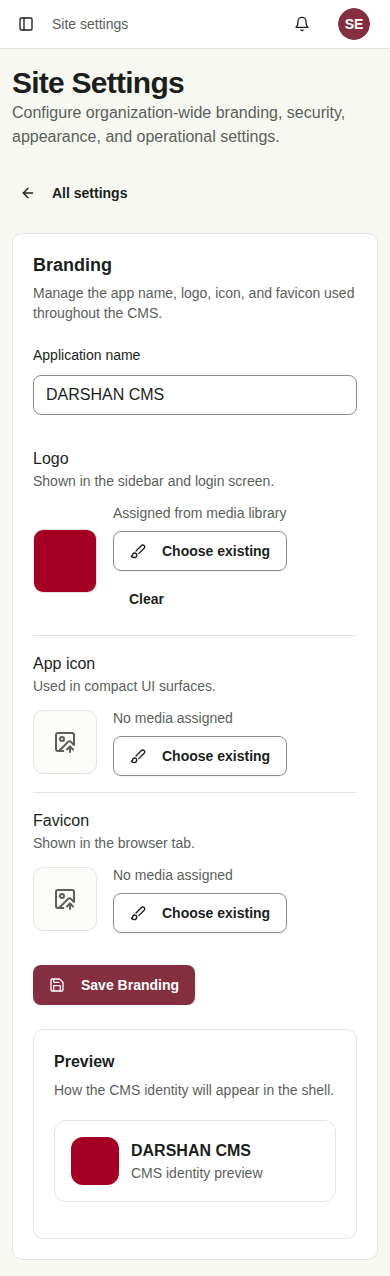
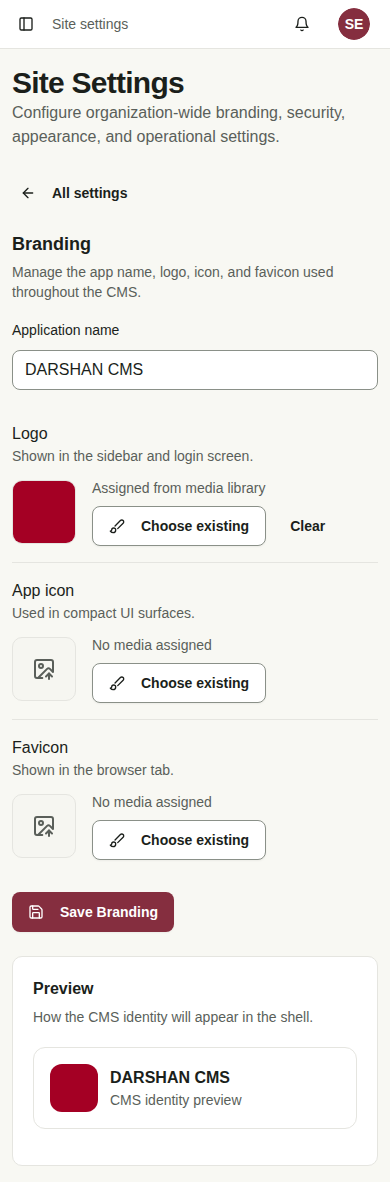
style(cms): simplify Settings section layout
Place major Settings sections on the site canvas while keeping controls and previews bounded. Correct the inherited card border after rendered inspection, and record full Settings browser and build verification.

diff --git a/darshan-cms/src/pages/Settings.tsx b/darshan-cms/src/pages/Settings.tsx
@@ -457,12 +457,12 @@ const Settings = () => {
 
         <TabsContent value="general" className="space-y-4">
           <SettingsQueryGuard query={generalQuery}>
-          <Card>
-            <CardHeader>
+          <Card className="settings-section">
+            <CardHeader className="px-0 pb-4 pt-0">
               <CardTitle>General</CardTitle>
               <CardDescription>Default locale and organization details for the CMS.</CardDescription>
             </CardHeader>
-            <CardContent className="space-y-4">
+            <CardContent className="space-y-4 px-0 pb-0 pt-0">
               {!canEditOrg ? <p className="text-sm text-muted-foreground">You can view these settings. Editing requires Manage Site Settings.</p> : null}
               <div className="space-y-2">
                 <Label htmlFor="company-name">Company name</Label>
@@ -504,14 +504,14 @@ const Settings = () => {
 
         <TabsContent value="branding" className="space-y-4">
           <SettingsQueryGuard query={brandingQuery}>
-          <Card>
-            <CardHeader>
+          <Card className="settings-section">
+            <CardHeader className="px-0 pb-4 pt-0">
               <CardTitle>Branding</CardTitle>
               <CardDescription>
                 Manage the app name, logo, icon, and favicon used throughout the CMS.
               </CardDescription>
             </CardHeader>
-            <CardContent className="space-y-4">
+            <CardContent className="space-y-4 px-0 pb-0 pt-0">
               {!canEditBranding ? (
                 <div className="rounded-lg border border-dashed p-4 text-sm text-muted-foreground">
                   You can view branding. Editing requires Manage Branding permission.
@@ -596,12 +596,12 @@ const Settings = () => {
 
         <TabsContent value="security" className="space-y-4">
           <SettingsQueryGuard query={securityQuery}>
-          <Card>
-            <CardHeader>
+          <Card className="settings-section">
+            <CardHeader className="px-0 pb-4 pt-0">
               <CardTitle>Security</CardTitle>
               <CardDescription>Working session timeout and password requirement controls.</CardDescription>
             </CardHeader>
-            <CardContent className="space-y-6">
+            <CardContent className="space-y-6 px-0 pb-0 pt-0">
               {!canEditOrg ? <p className="text-sm text-muted-foreground">You can view these settings. Editing requires Manage Site Settings.</p> : null}
               <div className="space-y-2">
                 <Label htmlFor="session-timeout">Idle session timeout (minutes)</Label>
@@ -688,12 +688,12 @@ const Settings = () => {
 
         <TabsContent value="appearance" className="space-y-4">
           <SettingsQueryGuard query={appearanceQuery}>
-          <Card>
-            <CardHeader>
+          <Card className="settings-section">
+            <CardHeader className="px-0 pb-4 pt-0">
               <CardTitle>Appearance</CardTitle>
               <CardDescription>Theme, accent, and sidebar behavior for the entire CMS.</CardDescription>
             </CardHeader>
-            <CardContent className="space-y-4">
+            <CardContent className="space-y-4 px-0 pb-0 pt-0">
               {!canEditOrg ? <p className="text-sm text-muted-foreground">You can view these settings. Editing requires Manage Site Settings.</p> : null}
               <div className="grid gap-4 md:grid-cols-3">
                 <div className="space-y-2">
@@ -765,14 +765,14 @@ const Settings = () => {
           <DefaultMediaSection />
         </TabsContent>
 
-        <TabsContent value="advanced" className="space-y-4">
+        <TabsContent value="advanced" className="space-y-8">
           <SettingsQueryGuard query={backupSettingsQuery}>
-          <Card>
-            <CardHeader>
+          <Card className="settings-section">
+            <CardHeader className="px-0 pb-4 pt-0">
               <CardTitle>Backups</CardTitle>
               <CardDescription>Automatic full backups for PostgreSQL and MinIO archives.</CardDescription>
             </CardHeader>
-            <CardContent className="space-y-4">
+            <CardContent className="space-y-4 px-0 pb-0 pt-0">
               {!canEditOrg ? <p className="text-sm text-muted-foreground">You can view backup settings. Editing requires Manage Site Settings.</p> : null}
               <div className="flex flex-wrap items-center gap-2 rounded-lg border bg-muted/20 px-4 py-3 text-sm">
                 <Badge variant={automaticBackupsEnabled ? "default" : "outline"}>
@@ -852,12 +852,12 @@ const Settings = () => {
             </CardContent>
           </Card>
 
-          {!externalBackupSidecar ? <Card>
-            <CardHeader>
+          {!externalBackupSidecar ? <Card className="settings-section">
+            <CardHeader className="px-0 pb-4 pt-0">
               <CardTitle>Backup history</CardTitle>
               <CardDescription>Recent manual and automatic backup runs.</CardDescription>
             </CardHeader>
-            <CardContent className="space-y-3">
+            <CardContent className="space-y-3 px-0 pb-0 pt-0">
               {backupRunsQuery.isPending ? <p className="text-sm text-muted-foreground">Loading backup history…</p> : null}
               {backupRunsQuery.isError ? <div className="space-y-2"><p className="text-sm text-destructive">Could not load backup history.</p><Button variant="outline" onClick={() => void backupRunsQuery.refetch()}>Retry</Button></div> : null}
               {backupRuns.map((run) => (
@@ -920,12 +920,12 @@ const Settings = () => {
           />
           </SettingsQueryGuard>
 
-          <Card>
-            <CardHeader>
+          <Card className="settings-section">
+            <CardHeader className="px-0 pb-4 pt-0">
               <CardTitle>Recent logs</CardTitle>
               <CardDescription>Recent backend application logs filtered by runtime log level.</CardDescription>
             </CardHeader>
-            <CardContent className="space-y-4">
+            <CardContent className="space-y-4 px-0 pb-0 pt-0">
               {recentLogsQuery.isPending ? <p className="text-sm text-muted-foreground">Loading recent logs…</p> : null}
               {recentLogsQuery.isError ? <div className="space-y-2"><p className="text-sm text-destructive">Could not load recent logs.</p><Button variant="outline" onClick={() => void recentLogsQuery.refetch()}>Retry</Button></div> : null}
               <div className="flex flex-wrap items-center gap-3">

diff --git a/darshan-cms/tests/settings-ui.e2e.spec.ts b/darshan-cms/tests/settings-ui.e2e.spec.ts
@@ -151,6 +151,8 @@ test("recent logs use readable site surfaces in dark and light modes", async ({ 
   const message = page.getByText("Service ready");
   await expect(message).toBeVisible();
   const panel = message.locator("../..");
+  const section = page.locator(".settings-section").filter({ has: page.getByRole("heading", { name: "Recent logs" }) });
+  await expect(section).toHaveCSS("border-top-width", "0px");
   await expect(page.locator("html")).toHaveClass(/dark/);
   await expect(panel).toHaveCSS("background-color", "rgb(29, 33, 29)");
   await expect(message).toHaveCSS("color", "rgb(242, 245, 238)");

diff --git a/darshan-cms/src/index.css b/darshan-cms/src/index.css
@@ -136,6 +136,7 @@
 @layer utilities {
   .operational-shell { background: hsl(var(--background)); }
   .operational-card { border: 1px solid hsl(var(--border)); background: hsl(var(--card)); box-shadow: none; }
+  .operational-card.settings-section { border: 0; background: transparent; box-shadow: none; }
   .operational-card.layout-editor-group { border: 0; background: transparent; box-shadow: none; }
   .operational-card-strong { border: 1px solid hsl(var(--border)); background: hsl(var(--card)); box-shadow: none; }
   .status-dot { height: .625rem; width: .625rem; border-radius: 999px; }

diff --git a/docs/design-discovery/PRODUCT_UI_COVERAGE_REGISTER.md b/docs/design-discovery/PRODUCT_UI_COVERAGE_REGISTER.md
@@ -32,7 +32,7 @@ The route gate is the UI navigation guard, not a substitute for the server's act
 | R21 | `/screens` — Screens | `read Screen` or `read ScreenGroup` | Screen, Group and Pairing APIs; inspect, pair, recover, manage and delete with server blockers. | 390/820/1440 prototype; 20/20 fixture-backed browser cases; semantic Screen health/delivery colors checked in the built palette; real player pending. |
 | R22 | `/media` — MediaLibrary | `read Media` | Media API; upload, preview, delete and restore when authorized. | 390/820/1440 fixture browser and dark phone; 6 new UI cases plus 9 affected regressions; real upload/restore service pending. |
 | R23 | `/reports` — Reports | `read Report` or `read AuditLog` | Availability and audit views; conditional PoP preview; PDF/CSV exports according to exact grants. | 390/820/1440 fixture browser and dark phone; 8 new/affected cases and focused PDF route tests passed. Real-service evidence pending. |
-| R24 | `/settings` — Settings | `read OrgSettings`; `read BrandingSettings` and `read Role` for those categories | Settings hooks and media API; site categories remain read-only without their update grants. Branding upload also requires `create Media`. | Phone category → detail, tablet/desktop category list, 390/640/820/1440 fixture browser, failure/Retry and focused API validation passed. Default Media conflict retry corrected. Saved appearance propagation checked in fixtures; matched-service and assistive-technology review pending. |
+| R24 | `/settings` — Settings | `read OrgSettings`; `read BrandingSettings` and `read Role` for those categories | Settings hooks and media API; site categories remain read-only without their update grants. Branding upload also requires `create Media`. | Phone category → detail, tablet/desktop category list, 390/640/820/1440 fixture browser, failure/Retry and focused API validation passed. Major sections now sit on the page canvas, with bounded fields and previews; 7/7 Settings browser cases passed after that change. Default Media conflict retry corrected. Saved appearance propagation checked in fixtures; matched-service and assistive-technology review pending. |
 | R25 | `/api-keys` — ApiKeys | `read ApiKey` | Review retained prefixes/status and revoke with `delete ApiKey`; creation/rotation are disabled because API-key authentication is absent. | 390/820/1440 fixture browser and dark phone; browser and DB policy cases passed; matched-build isolated CMS showed no issuance controls and completed retained-key cancel/revoke. Wider permission and accessibility cases pending. |
 | R26 | `/webhooks` — Webhooks | `read Webhook` | Webhook API; configure endpoints, enable/pause, delete and explicitly test permitted destinations. Automatic event delivery is absent. | 390/820/1440 fixture browser and dark phone; four new cases, admin regression, focused route test; real endpoint and dispatcher decision pending. |
 | R27 | `/proof-of-play` — ProofOfPlay | `read ProofOfPlay` | PoP API; inspect player-reported playback starts and completion outcomes, filter and export evidence. | 390/820/1440 fixture browser and dark phone; 4 browser cases and focused DB routes passed. Real player/service journey pending. |

diff --git a/docs/design-discovery/PRODUCT_UI_REDESIGN_PROGRESS.md b/docs/design-discovery/PRODUCT_UI_REDESIGN_PROGRESS.md
@@ -261,3 +261,5 @@ The default CMS SVG/favicon and the player installer/window icon now share a fla
 The first broad fixture browser run exposed four obsolete test assumptions after site appearance became server-owned. Dark-mode tests now serve saved site settings instead of writing the old browser-storage key; the Users test uses the current heading. It also exposed a real bootstrap defect: malformed private appearance/branding responses could overwrite a valid public theme or branding. The bootstrap now applies only validated fields, including safe image URLs. A second broad run reached all 182 tests: 176 passed, five environment-dependent chat cases skipped, and one Schedule Queue assertion matched both the visible toast and accessibility status text. The assertion now targets the visible toast and passed with the malformed-branding case in a focused 2/2 rerun. The final CMS build, bundle budget, focused lint and 283 units passed. [Developer evidence](../../qa-artifacts/evidence/product-ui-cross-route-regression-developer-verification-2026-11-04.md) records the precise boundary. Matched-service and human QA remain open.
 
 The next palette audit found fixed light-theme status colors in Dashboard machine/service health and the Screen observability scrape badge. These now use the shared semantic colors in both appearances; unknown stays neutral. The Settings Recent logs panel also uses the site card and text tokens instead of a black console. The CMS build, 283 units, focused lint, three existing Dashboard/Screen/Settings browser journeys and one new light/dark 390px rendered log case passed. The [dark phone capture](../../qa-artifacts/evidence/product-ui-settings/logs-dark-390.png) was inspected. [Developer evidence](../../qa-artifacts/evidence/product-ui-observability-settings-palette-developer-verification-2026-11-04.md) records limits.
+
+Settings then lost the large outer card around General, Branding, Security, Appearance, Backups, Backup history and Recent logs. Those sections now sit directly on the page canvas with space between them; specific inputs, media preview and log entries retain useful boundaries. The first phone capture exposed a CSS precedence error that left the old card border with no padding. A scoped `settings-section` rule corrected it, and the light Branding and dark Advanced phone captures were re-inspected. The final Settings browser file passed 7/7, CMS build and budget passed, and 283 units passed. [Developer evidence](../../qa-artifacts/evidence/product-ui-settings-sections-developer-verification-2026-11-04.md) records the limits.

diff --git a/qa-artifacts/evidence/product-ui-settings-sections-developer-verification-2026-11-04.md b/qa-artifacts/evidence/product-ui-settings-sections-developer-verification-2026-11-04.md
@@ -1,0 +1,9 @@
+# Settings section layout: developer verification
+
+Branch: `codex/darshan-product-ui-redesign-20261103`. This is fixture-backed visual and workflow evidence, not independent human QA.
+
+- General, Branding, Security, Appearance and the three Advanced sections use the cream/dark page canvas instead of a large outer card. Form controls, brand preview and individual log entries retain their own boundaries. The category navigation and save behavior did not change.
+- The first 390px dark capture showed the inherited `operational-card` border still present after padding was removed. A scoped CSS rule removed both together. The final [dark Advanced](product-ui-settings/logs-dark-390.png) and [light Branding](product-ui-settings/390-light.png) captures were inspected; neither has the flush-to-border defect. The 1440px Branding capture was regenerated as well.
+- Full Settings Chromium fixture browser file: **7/7 passed**, including read-only access, branding clear/save, invalid upload, Retry, dark/light logs, three widths and phone draft/focus behavior. Final CMS production build and bundle budget passed; unit suite **283/283** passed. Focused TypeScript ESLint passed; CSS is outside the ESLint configuration.
+
+Open: matched-service Settings writes, live backup/log data, customer logo variants, text zoom, keyboard and screen-reader review, and independent QA. No site setting or backend contract changed in this packet.
